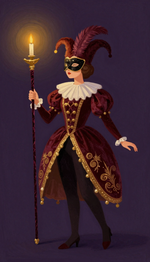
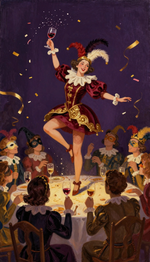
Render jester art tall (9:16), matching the rest of the set
queue_cards.py never passed an aspect ratio for the jesters kind, so new
renders came out square against the workflow's 1:1 default even though
style_jesters.txt already called for a full-bleed tall canvas; the
already-committed jester art only looked right because earlier renders
set --aspect by hand. Default it to 9:16 like queue_base_jester_variants.py
and faces. Also gives ringmaster a livelier prompt (dancing on the banquet
table) and a fresh render to match.

diff --git a/tools/imagegen/queue_cards.py b/tools/imagegen/queue_cards.py
@@ -39,7 +39,7 @@ parser.add_argument("--limit", type=int, default=None, help="queue only the firs
 parser.add_argument("--only", default=None, help="comma-separated card ids to queue (default: all)")
 parser.add_argument("--repeat", type=int, default=1, help="queue each card N times with different seeds")
 parser.add_argument("--seed", type=int, default=None, help="use this seed for every card (default: random per card)")
-parser.add_argument("--aspect", default=None, help="resolution node aspect ratio (default: 9:16 for faces, the workflow's 1:1 otherwise)")
+parser.add_argument("--aspect", default=None, help="resolution node aspect ratio (default: 9:16 for faces, 5:7 for jesters, the workflow's 1:1 otherwise)")
 parser.add_argument("--prefix", default="joker_cards", help="ComfyUI output subfolder")
 args = parser.parse_args()
 
@@ -48,8 +48,11 @@ PROMPT_FIELD = "text"
 SEED_NODES = ("52", "60")  # ClownsharKSampler, SeedVarianceEnhancer
 SAVE_NODE = "9"
 RESOLUTION_NODE = "41"  # FluxResolutionNode: aspect ratio at the set megapixels
-# Court portraits fill a tall window on the card (about 0.58 wide to 1 high); everything else is square.
+# Court portraits fill a tall window on the card (about 0.58 wide to 1 high).
 FACE_ASPECT = "9:16 (Slim Vertical)"
+# Jesters are full-bleed card art, rendered tall at the same 9:16 already used for the committed
+# art (see queue_base_jester_variants.py); everything else (decrees, masks, bosses) stays square.
+JESTER_ASPECT = "9:16 (Slim Vertical)"
 
 # A kind can have its own style text (style_<kind>.txt, placed after the prompt); faces need one without
 # the "empty space around it" wording, which shrinks a portrait in a tall frame.
@@ -79,7 +82,7 @@ for index, card in enumerate(cards):
     workflow[PROMPT_NODE]["inputs"][PROMPT_FIELD] = (
         f"{prompt} {STYLE}" if style_file.exists() else f"{STYLE}, {prompt}"
     )
-    aspect = args.aspect or (FACE_ASPECT if args.kind == "faces" else None)
+    aspect = args.aspect or (FACE_ASPECT if args.kind == "faces" else JESTER_ASPECT if args.kind == "jesters" else None)
     if aspect:
         workflow[RESOLUTION_NODE]["inputs"]["aspect_ratio"] = aspect
     seed = args.seed if args.seed is not None else random.randrange(0, 2**48)
